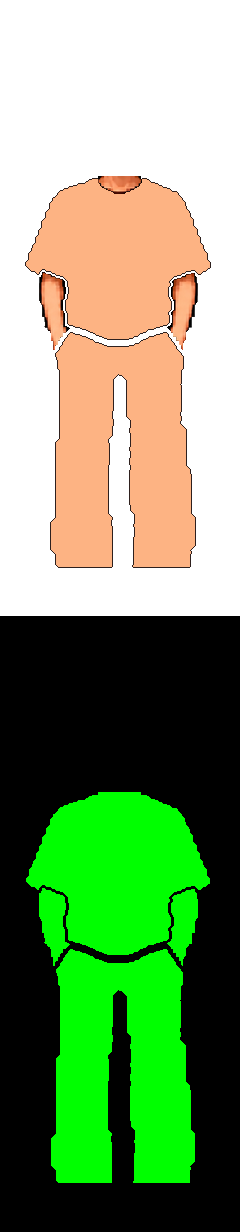
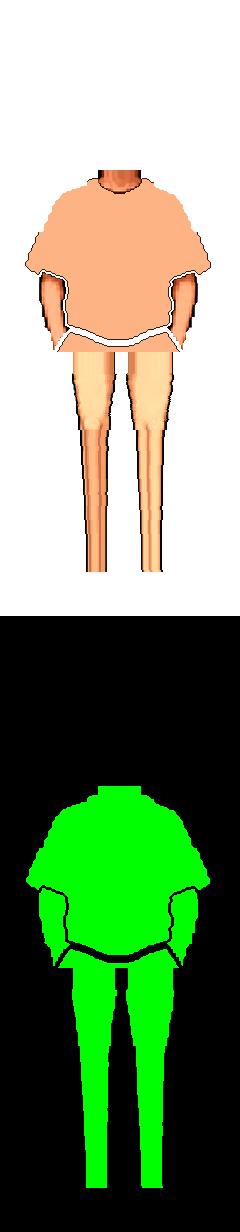
Add files via upload

diff --git a/public/games-sw.js b/public/games-sw.js
@@ -1,7 +1,7 @@
 /* Hors-ligne pour les jeux d'arcade FYSU.
    Ne touche à RIEN d'autre sur le site : seules la page du jeu, ses images
    et les fichiers du site demandés par cette page sont gardés en mémoire. */
-const CACHE = "fysu-games-v4"
+const CACHE = "fysu-games-v5"
 const GAME_PAGE = /^\/games\/[a-z-]+$/
 
 self.addEventListener("install", () => self.skipWaiting())
